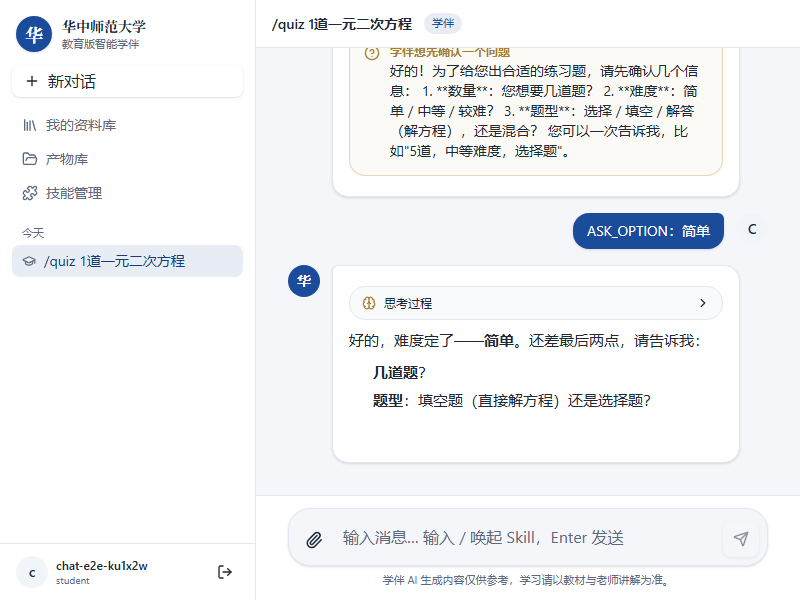
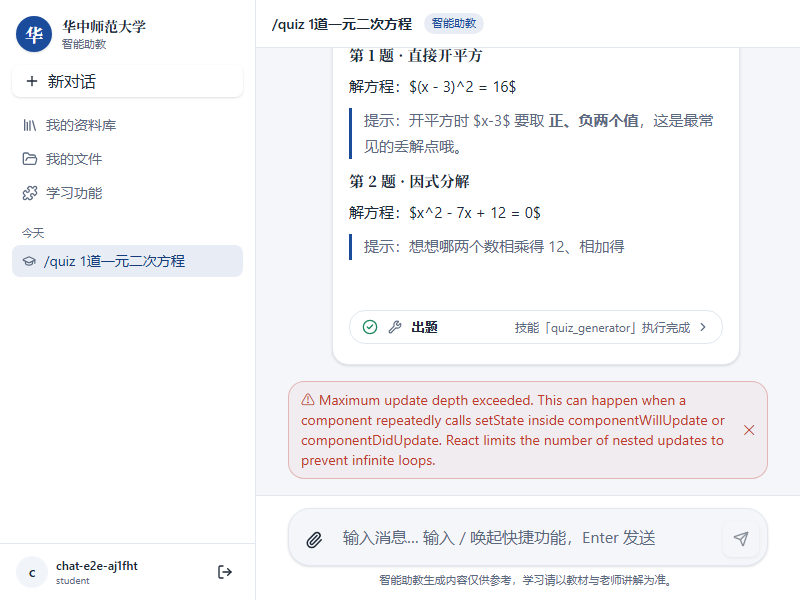
brand: 整体更名「智能学伴」→「智能助教」，AI 昵称「小毅」
- 产品名（前端全站+文档）：智能学伴→智能助教（标题/登录注册/欢迎/侧栏/模式标签/监控）
- AI 人格昵称 小毅（头像字'毅'、思考中'小毅思考中'、提问卡'小毅想先确认一个问题'）
- 服务端系统提示词：三模式均改'智能助教'，默认模式注明可叫'小毅'
- 监控导出 AI 学伴→AI 助教；e2e 断言同步

diff --git a/web/src/pages/ChatPage.tsx b/web/src/pages/ChatPage.tsx
@@ -470,7 +470,7 @@ export default function ChatPage() {
           </div>
           <div className="min-w-0">
             <div className="truncate font-display text-sm font-bold">华中师范大学</div>
-            <div className="text-[11px] text-muted-foreground">教育版智能学伴</div>
+            <div className="text-[11px] text-muted-foreground">智能助教</div>
           </div>
         </div>
         <div className="px-3 pb-3">
@@ -648,7 +648,7 @@ export default function ChatPage() {
                 <div className="mx-auto mb-3 flex size-16 items-center justify-center rounded-full bg-ccnu-blue/10 font-display text-3xl font-bold text-ccnu-blue">
                   华
                 </div>
-                <h2 className="font-display text-xl font-bold">华中师范大学 · 智能学伴</h2>
+                <h2 className="font-display text-xl font-bold">华中师范大学 · 智能助教</h2>
                 <p className="mt-1 text-xs text-ccnu-gold-deep">求实创新 · 立德树人</p>
                 <p className="mt-2 text-xs text-muted-foreground">
                   多轮对话、实时回复、输入 <code>/</code> 唤起快捷功能、生成可下载的学习文件
@@ -763,7 +763,7 @@ export default function ChatPage() {
               </div>
             )}
             <p className="mt-1.5 text-center text-[11px] text-muted-foreground">
-              学伴 AI 生成内容仅供参考，学习请以教材与老师讲解为准。
+              智能助教生成内容仅供参考，学习请以教材与老师讲解为准。
             </p>
           </div>
         </div>
@@ -812,7 +812,7 @@ function MessageRow({
           isUser ? 'bg-muted text-foreground' : 'bg-ccnu-blue text-white'
         }`}
       >
-        {isUser ? userName : '华'}
+        {isUser ? userName : '毅'}
       </div>
       <div className={`min-w-0 max-w-[85%] ${isUser ? 'text-right' : 'flex-1'}`}>
         {isUser ? (

diff --git a/web/src/components/AuthLayout.tsx b/web/src/components/AuthLayout.tsx
@@ -9,10 +9,10 @@ export default function AuthLayout({ children }: { children: ReactNode }) {
           <div className="flex size-14 items-center justify-center rounded-full border border-white/25 bg-white/10 font-display text-2xl font-bold">
             华
           </div>
-          <div className="mt-6 font-display text-2xl font-bold leading-snug">华中师范大学 · 智能学伴</div>
+          <div className="mt-6 font-display text-2xl font-bold leading-snug">华中师范大学 · 智能助教</div>
           <div className="mt-2 text-sm text-ccnu-gold">求实创新 · 立德树人</div>
           <p className="mt-6 max-w-md text-sm leading-relaxed text-white/75">
-            面向师生的教育版 AI 学伴：多轮问答 · 生成教案与试卷 · 文档分析与图表产出。以师范精神赋能教与学。
+            面向师生的 AI 智能助教：多轮问答 · 生成教案与试卷 · 文档分析与图表产出。以师范精神赋能教与学。
           </p>
         </div>
         <div className="text-xs text-white/60">Central China Normal University / CCNU AI</div>

diff --git a/web/src/pages/RegisterPage.tsx b/web/src/pages/RegisterPage.tsx
@@ -48,12 +48,12 @@ export default function RegisterPage() {
           华
         </div>
         <div>
-          <div className="font-display text-sm font-bold">华中师范大学 · 智能学伴</div>
-          <div className="text-[11px] text-muted-foreground">教育版 AI 学伴</div>
+          <div className="font-display text-sm font-bold">华中师范大学 · 智能助教</div>
+          <div className="text-[11px] text-muted-foreground">AI 智能助教</div>
         </div>
       </div>
       <h1 className="font-display text-xl font-bold">创建账号</h1>
-      <p className="mt-1 text-sm text-muted-foreground">加入教育版智能学伴</p>
+      <p className="mt-1 text-sm text-muted-foreground">加入智能助教</p>
       <form onSubmit={onSubmit} className="mt-6 space-y-4">
         <label className="block text-sm">
           <span className="mb-2 block font-medium">用户名</span>

diff --git a/web/src/pages/LoginPage.tsx b/web/src/pages/LoginPage.tsx
@@ -36,12 +36,12 @@ export default function LoginPage() {
           华
         </div>
         <div>
-          <div className="font-display text-sm font-bold">华中师范大学 · 智能学伴</div>
-          <div className="text-[11px] text-muted-foreground">教育版 AI 学伴</div>
+          <div className="font-display text-sm font-bold">华中师范大学 · 智能助教</div>
+          <div className="text-[11px] text-muted-foreground">AI 智能助教</div>
         </div>
       </div>
       <h1 className="font-display text-xl font-bold">欢迎回来</h1>
-      <p className="mt-1 text-sm text-muted-foreground">登录教育版智能学伴</p>
+      <p className="mt-1 text-sm text-muted-foreground">登录智能助教</p>
       <form onSubmit={onSubmit} className="mt-6 space-y-4">
         <label className="block text-sm">
           <span className="mb-2 block font-medium">用户名</span>

diff --git a/web/src/pages/MonitorPage.tsx b/web/src/pages/MonitorPage.tsx
@@ -389,7 +389,7 @@ export default function MonitorPage() {
               ) : (
                 transcript.msgs.map((m) => (
                   <div key={m.id} className={`tr-msg ${m.role}`}>
-                    <div className="tr-who">{m.role === 'user' ? '学生' : '学伴'}</div>
+                    <div className="tr-who">{m.role === 'user' ? '学生' : '助教'}</div>
                     <div className="tr-content">{m.content}</div>
                     <div className="tr-time">{new Date(m.created_at).toLocaleString()}</div>
                   </div>
@@ -423,7 +423,7 @@ function SysRow({ label, value, detail, danger }: { label: string; value: string
 function modeLabel(m: string): string {
   switch (m) {
     case 'companion':
-      return '学伴'
+      return '智能助教'
     case 'practice':
       return '练习'
     case 'teacher':

diff --git a/web/src/components/chat/ThinkingCard.tsx b/web/src/components/chat/ThinkingCard.tsx
@@ -38,7 +38,7 @@ export function ThinkingIndicator() {
         <span className="absolute inline-flex h-full w-full animate-ping rounded-full bg-ccnu-blue opacity-60" />
         <span className="relative inline-flex size-2 rounded-full bg-ccnu-blue" />
       </span>
-      <span className="text-xs">学伴思考中</span>
+      <span className="text-xs">小毅思考中</span>
       <span className="flex items-center gap-0.5 pl-0.5">
         <span className="thinking-dot" />
         <span className="thinking-dot" style={{ animationDelay: '0.2s' }} />

diff --git a/web/src/components/chat/AskCard.tsx b/web/src/components/chat/AskCard.tsx
@@ -16,7 +16,7 @@ export default function AskCard({
       <div className="flex items-start gap-2.5">
         <HelpCircle className="mt-0.5 size-4 shrink-0 text-ccnu-gold-deep" />
         <div className="min-w-0">
-          <div className="mb-0.5 text-xs font-semibold text-ccnu-gold-deep">学伴想先确认一个问题</div>
+          <div className="mb-0.5 text-xs font-semibold text-ccnu-gold-deep">小毅想先确认一个问题</div>
           <div className="text-sm">{question}</div>
         </div>
       </div>

diff --git a/web/index.html b/web/index.html
@@ -4,7 +4,7 @@
     <meta charset="UTF-8" />
     <link rel="icon" type="image/svg+xml" href="/favicon.svg" />
     <meta name="viewport" content="width=device-width, initial-scale=1.0" />
-    <title>华中师范大学 · 智能学伴</title>
+    <title>华中师范大学 · 智能助教</title>
   </head>
   <body>
     <div id="root"></div>

diff --git a/web/src/types.ts b/web/src/types.ts
@@ -57,7 +57,7 @@ export interface AskPayload {
 }
 
 export const MODE_LABELS: Record<Mode, string> = {
-  companion: '学伴',
+  companion: '智能助教',
   practice: '练习测评',
   teacher: '教师辅助',
 }

diff --git a/server/internal/agent/agent.go b/server/internal/agent/agent.go
@@ -59,12 +59,12 @@ func SystemPrompt(mode string, skills []string) string {
 	var sb strings.Builder
 	switch mode {
 	case store.ModePractice:
-		sb.WriteString("你是「练习与测评」教育助手：负责生成练习题、批改作答、诊断薄弱知识点。" +
+		sb.WriteString("你是「练习与测评」智能助教：负责生成练习题、批改作答、诊断薄弱知识点。" +
 			"批改主观题时给出评分依据并注明仅供参考。")
 	case store.ModeTeacher:
-		sb.WriteString("你是「教师辅助」教育助手：协助教师生成教案、布置与批改作业、汇总学情，输出结构化内容（教学目标/环节/评价方式）。")
+		sb.WriteString("你是「教师辅助」智能助教：协助教师生成教案、布置与批改作业、汇总学情，输出结构化内容（教学目标/环节/评价方式）。")
 	default:
-		sb.WriteString("你是「学伴」教育助手：面向学生答疑。先理解问题，再分步讲解；优先启发思考而非直接给答案；结论需有依据。")
+		sb.WriteString("你是「智能助教」教育助手（学生可以亲切地叫你「小毅」）：面向学生答疑。先理解问题，再分步讲解；优先启发思考而非直接给答案；结论需有依据。")
 	}
 	sb.WriteString("\n\n行为准则：")
 	sb.WriteString("\n- 当任务信息不足（如题目数量/难度/范围不明确，或需引导学生思考）时，调用 ask_user 提出一个问题并等待学生回答，不要臆测参数继续。")

diff --git a/server/internal/gateway/monitor_handlers.go b/server/internal/gateway/monitor_handlers.go
@@ -303,7 +303,7 @@ func (m *monitorService) auditExportAll(w http.ResponseWriter, r *http.Request) 
 		for _, msg := range qa {
 			who := "学生"
 			if msg.Role == "assistant" {
-				who = "AI 学伴"
+				who = "AI 助教"
 			}
 			sb.WriteString(fmt.Sprintf("【%s %s】\n%s\n\n", who, msg.CreatedAt.Format("15:04"), msg.Content))
 		}

diff --git a/server/internal/store/store.go b/server/internal/store/store.go
@@ -17,7 +17,7 @@ const (
 
 // 会话模式常量（对应 Agent.md 的教育模式）
 const (
-	ModeCompanion = "companion" // 学伴（智能答疑）
+	ModeCompanion = "companion" // 智能助教（智能答疑）
 	ModePractice  = "practice"  // 练习与测评
 	ModeTeacher   = "teacher"   // 教师辅助
 )
